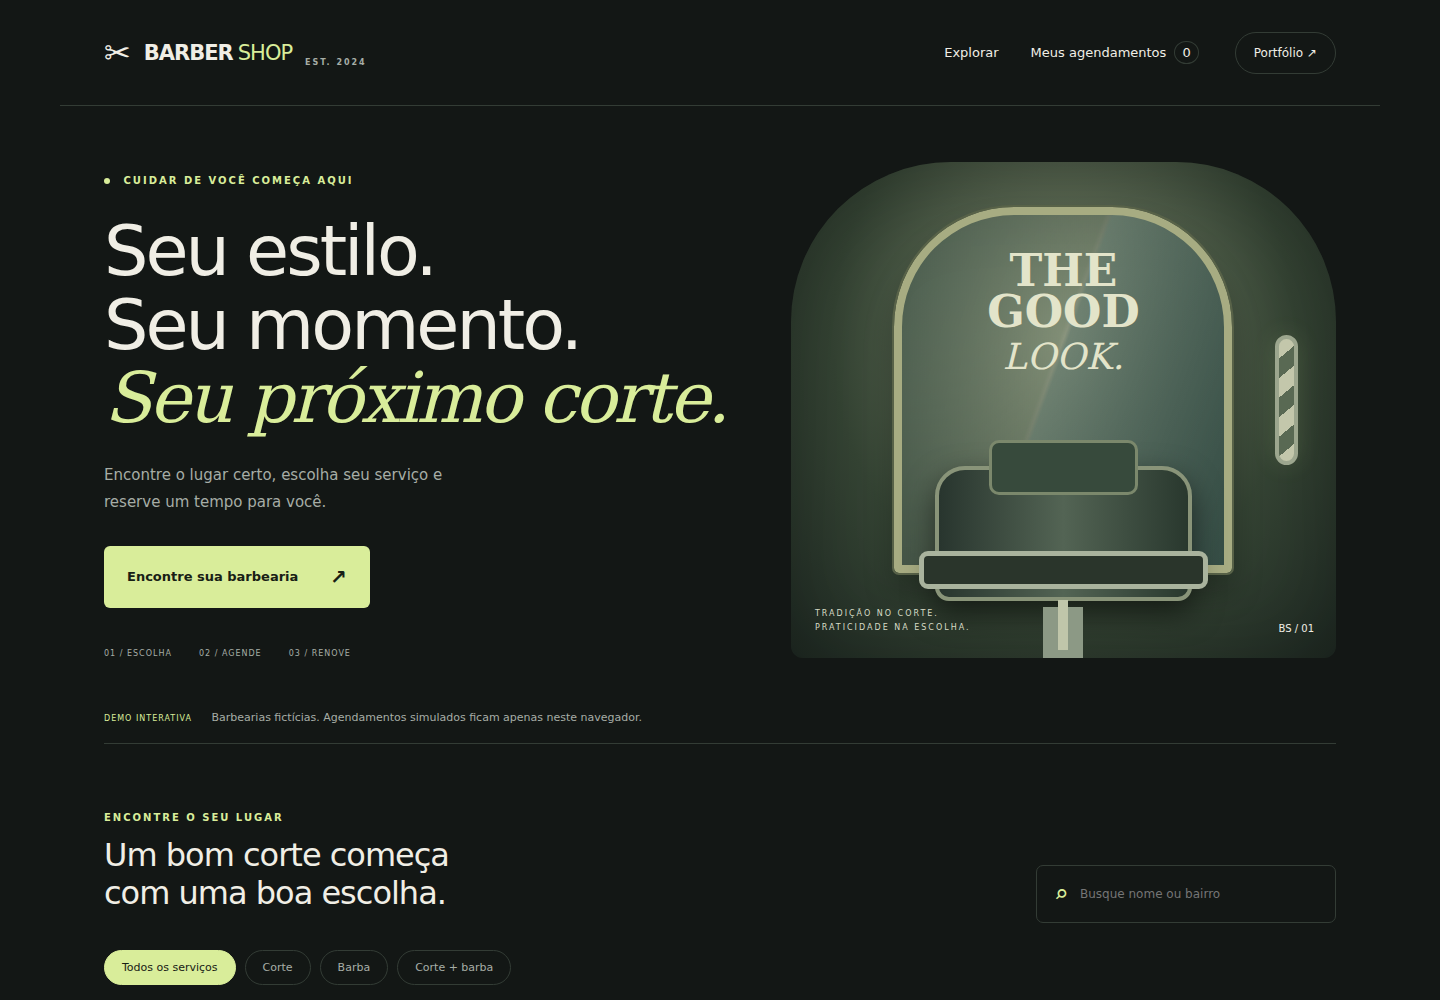
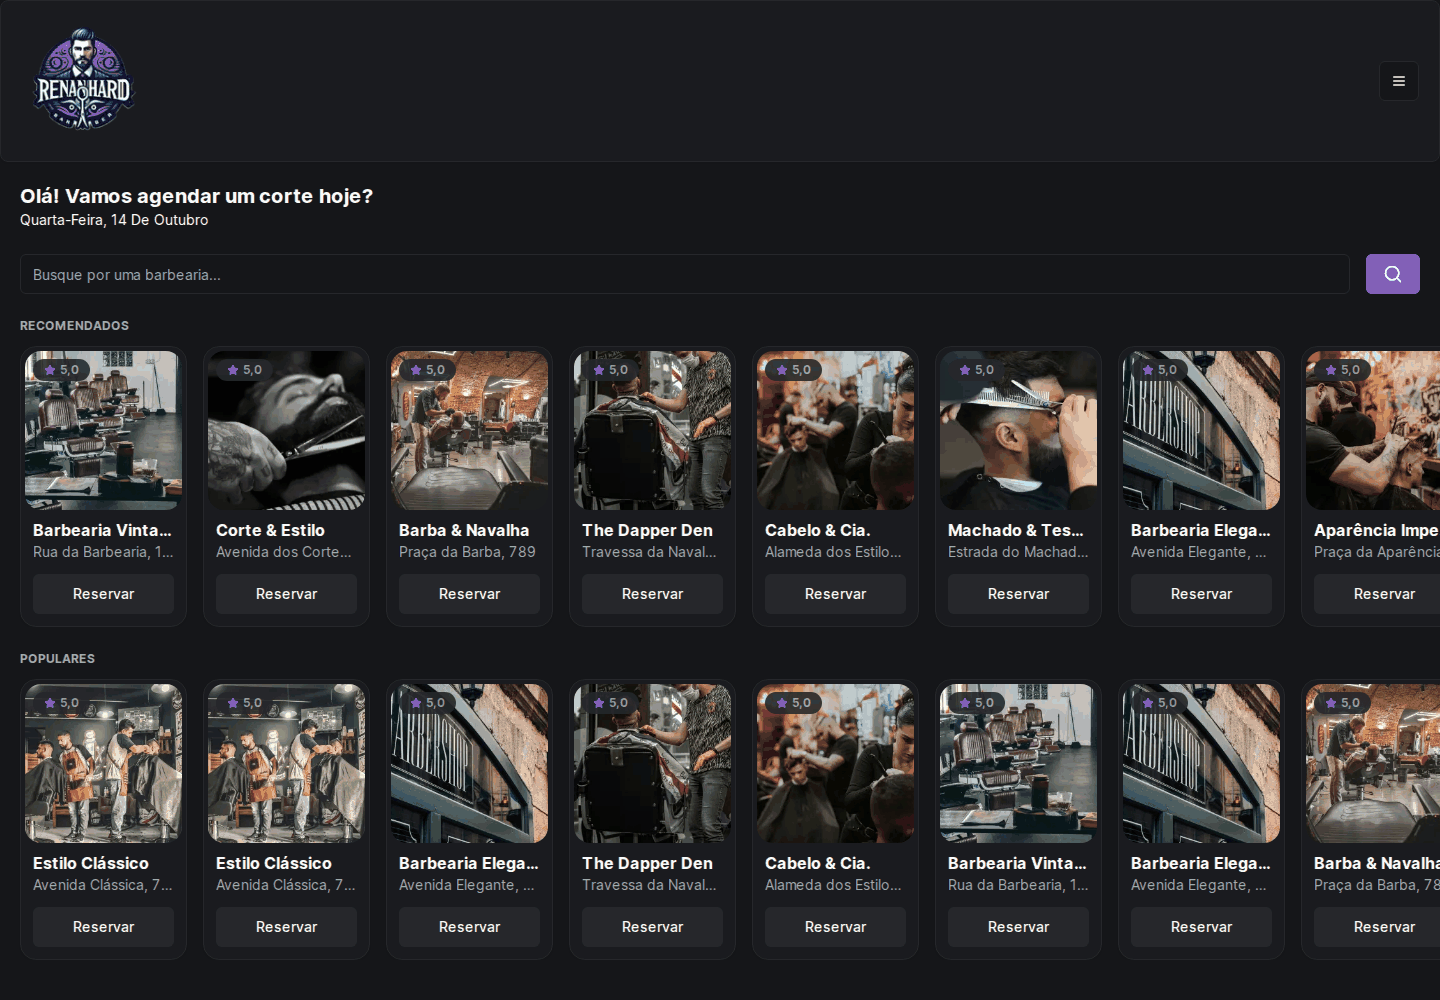
fix(portfolio): link Barber Shop to original authenticated app (#18)

diff --git a/public/demos/barbershop/index.html b/public/demos/barbershop/index.html
@@ -1,8 +1,1 @@
-<!doctype html>
-<html lang="pt-BR"><head><meta charset="UTF-8"><meta name="viewport" content="width=device-width,initial-scale=1"><meta name="theme-color" content="#131715"><meta name="description" content="Barber Shop — demonstração interativa de descoberta e agendamento de barbearias, por Renan Augusto."><title>Barber Shop • Seu estilo, seu horário</title><link rel="stylesheet" href="style.css"><script defer src="app.js"></script></head>
-<body><header><a class="brand" href="./"><span class="brand-icon">✂</span> BARBER<span>SHOP</span><small>EST. 2024</small></a><nav aria-label="Navegação principal"><a href="#explorar">Explorar</a><a href="#reservas">Meus agendamentos <span id="count">0</span></a></nav><a class="portfolio" href="/pt-BR/projetos/barbershop">Portfólio ↗</a></header>
-<main><section class="hero"><div class="hero-copy"><p class="eyebrow"><span></span> CUIDAR DE VOCÊ COMEÇA AQUI</p><h1>Seu estilo.<br>Seu momento.<br><em>Seu próximo corte.</em></h1><p class="intro">Encontre o lugar certo, escolha seu serviço e reserve um tempo para você.</p><a class="button" href="#explorar">Encontre sua barbearia <span>↗</span></a><div class="hero-foot"><span>01 / ESCOLHA</span><span>02 / AGENDE</span><span>03 / RENOVE</span></div></div><div class="hero-art" role="img" aria-label="Ilustração de uma barbearia clássica, com espelho, cadeira e poste listrado"><div class="arch"><span class="mirror-word">THE<br>GOOD<br><i>LOOK.</i></span><div class="chair"><div></div></div></div><div class="pole"></div><div class="art-label">TRADIÇÃO NO CORTE.<br>PRATICIDADE NA ESCOLHA.</div><span class="art-index">BS / 01</span></div></section>
-<div class="demo-note"><span>DEMO INTERATIVA</span> Barbearias fictícias. Agendamentos simulados ficam apenas neste navegador.</div>
-<section id="explorar" class="explore"><div class="section-top"><div><p class="eyebrow">ENCONTRE O SEU LUGAR</p><h2>Um bom corte começa<br>com uma boa escolha.</h2></div><label class="search"><span>⌕</span><input id="search" type="search" placeholder="Busque nome ou bairro" aria-label="Buscar barbearias por nome ou bairro"></label></div><div class="filters" role="group" aria-label="Filtrar por serviço"><button class="active" data-filter="Todos" aria-pressed="true">Todos os serviços</button><button data-filter="Corte" aria-pressed="false">Corte</button><button data-filter="Barba" aria-pressed="false">Barba</button><button data-filter="Combo" aria-pressed="false">Corte + barba</button></div><p id="results" class="muted" aria-live="polite"></p><div id="shops" class="cards"></div></section>
-<section id="reservas" class="bookings"><div><p class="eyebrow">SEU TEMPO, ORGANIZADO</p><h2>Meus agendamentos</h2></div><div id="booking-list" aria-live="polite"></div></section></main><footer><a class="brand" href="./">✂ BARBER<span>SHOP</span></a><p>Design & desenvolvimento por <a href="/">Renan Augusto ↗</a></p><span>PROJETO DE PORTFÓLIO • 2026</span></footer>
-<dialog id="booking-dialog"><form id="booking-form"><div class="dialog-head"><p class="eyebrow">RESERVE SEU MOMENTO</p><button type="button" id="close" class="close" aria-label="Fechar">×</button></div><h2 id="shop-title"></h2><p class="muted">Simulação local — nenhum agendamento real será enviado.</p><label>Serviço<select id="service" required></select></label><div class="fields"><label>Data<input id="date" type="date" required></label><label>Horário<select id="time" required><option value="">Selecione</option></select></label></div><div class="total"><span>Total estimado</span><strong id="price"></strong></div><p id="form-error" role="alert"></p><button class="button" type="submit">Confirmar simulação <span>↗</span></button></form></dialog><div id="toast" role="status"></div></body></html>
+<!doctype html><html lang="pt-BR"><head><meta charset="utf-8"><meta name="viewport" content="width=device-width,initial-scale=1"><meta http-equiv="refresh" content="0;url=https://barbershop-seven-pi.vercel.app/"><link rel="canonical" href="https://barbershop-seven-pi.vercel.app/"><meta name="robots" content="noindex"><title>Barber Shop</title></head><body><p>O Barber Shop está no endereço original, com login Google e sua identidade visual.</p><a href="https://barbershop-seven-pi.vercel.app/">Abrir Barber Shop</a></body></html>

diff --git a/src/content/pt-BR/projects.ts b/src/content/pt-BR/projects.ts
@@ -3,16 +3,16 @@ import type { ProjectCopy } from "@/features/projects/types";
 export const projectsCopy: Record<string, ProjectCopy> = {
   "barbershop": {
     "title": "Barber Shop",
-    "summary": "Experiência de descoberta e agendamento de barbearias, com busca, filtros e uma demonstração interativa de reservas no navegador.",
-    "coverAlt": "Barber Shop com identidade verde e creme, ilustração de barbearia e catálogo de serviços.",
+    "summary": "Aplicação de agendamento de barbearias com identidade visual original em tema escuro e roxo, login Google e reservas persistidas em PostgreSQL.",
+    "coverAlt": "Página original do RENANHARD Barber, com tema escuro, detalhes roxos e catálogo de barbearias.",
     "galleryAlt": [],
-    "challenge": "Apresentar o fluxo de agendamento de forma acessível para visitantes do portfólio, sem exigir conta ou banco de dados.",
-    "solution": "Demonstração estática responsiva com busca por nome e bairro, filtros por serviço e reservas simuladas no localStorage. O projeto completo usa Next.js, Prisma, PostgreSQL e autenticação Google.",
-    "contribution": "Evolução de um projeto educacional Full Stack Week: nova demonstração visual, integração ao portfólio, responsividade e validações de sessão e propriedade das reservas no servidor.",
+    "challenge": "Conectar clientes e barbearias em uma experiência simples, preservando a identidade visual e a autenticação do aplicativo original.",
+    "solution": "Aplicação Next.js com componentes React e Tailwind CSS, autenticação Google via NextAuth e persistência com Prisma e PostgreSQL.",
+    "contribution": "Evolução de um projeto educacional Full Stack Week. A aplicação original é a base do produto; a expansão da gestão comercial está em desenvolvimento e validação.",
     "outcomes": [
-        "Demonstração acessível sem cadastro, com dados fictícios e identificação clara da simulação.",
-        "Fluxo de seleção de serviço, data e horário, persistência local e cancelamento.",
-        "Reservas reais dependem da configuração de PostgreSQL e Google OAuth no aplicativo completo."
+        "Aplicativo original disponível com login Google e fluxo de agendamento.",
+        "Interface original preservada, com tema escuro e detalhes roxos.",
+        "Painel de gestão e recursos comerciais em desenvolvimento; não apresentados como já disponíveis em produção."
     ]
 },
   "lazuli-arcade": {

diff --git a/src/content/en/projects.ts b/src/content/en/projects.ts
@@ -3,16 +3,16 @@ import type { ProjectCopy } from "@/features/projects/types";
 export const projectsCopy: Record<string, ProjectCopy> = {
   "barbershop": {
     "title": "Barber Shop",
-    "summary": "Barbershop discovery and booking experience with search, service filters and an interactive browser-based booking demo.",
-    "coverAlt": "Barber Shop in green and cream, with a barbershop illustration and service catalog.",
+    "summary": "Barbershop booking application with its original dark and purple visual identity, Google login and PostgreSQL-backed reservations.",
+    "coverAlt": "Original RENANHARD Barber homepage with dark theme, purple accents and barbershop catalog.",
     "galleryAlt": [],
-    "challenge": "Let portfolio visitors explore a booking flow without needing an account or database.",
-    "solution": "Responsive standalone demo with name and neighborhood search, service filters and simulated bookings stored in localStorage. The full project uses Next.js, Prisma, PostgreSQL and Google authentication.",
-    "contribution": "Evolution of a Full Stack Week educational project: a new visual demo, portfolio integration, responsive improvements and server-side session and booking ownership checks.",
+    "challenge": "Connect customers and barbershops while preserving the original visual identity and authentication experience.",
+    "solution": "Next.js application with React and Tailwind CSS, Google authentication through NextAuth, and Prisma/PostgreSQL persistence.",
+    "contribution": "Evolution of a Full Stack Week educational project. The original application remains the product foundation; commercial management features are under development and validation.",
     "outcomes": [
-        "No-signup demo with fictional data and explicitly simulated bookings.",
-        "Service, date and time selection, local persistence and cancellation.",
-        "Real bookings require PostgreSQL and Google OAuth configuration in the full application."
+        "Original application available with Google login and a booking flow.",
+        "Original dark and purple visual identity preserved.",
+        "Management and commercial features are under development and are not represented as already deployed."
     ]
 },
   "lazuli-arcade": {

diff --git a/src/content/projects-base.ts b/src/content/projects-base.ts
@@ -10,10 +10,10 @@ export const projectsBase: ProjectBase[] = [
   {
     id: "barbershop", slug: "barbershop", category: "web",
     technologies: ["Next.js", "React", "TypeScript", "Tailwind CSS", "Prisma", "PostgreSQL", "NextAuth"],
-    kind: "demo", status: "live", featured: true,
+    kind: "personal", status: "live", featured: true,
     cover: { src: "/images/projects/barbershop.png", width: 1440, height: 1000 },
     gallery: [], repositoryUrl: github("barbershop"),
-    liveUrl: "https://renanaugusto.com.br/demos/barbershop/index.html",
+    liveUrl: "https://barbershop-seven-pi.vercel.app",
     updatedAt: "2026-10-14",
   },
   {
